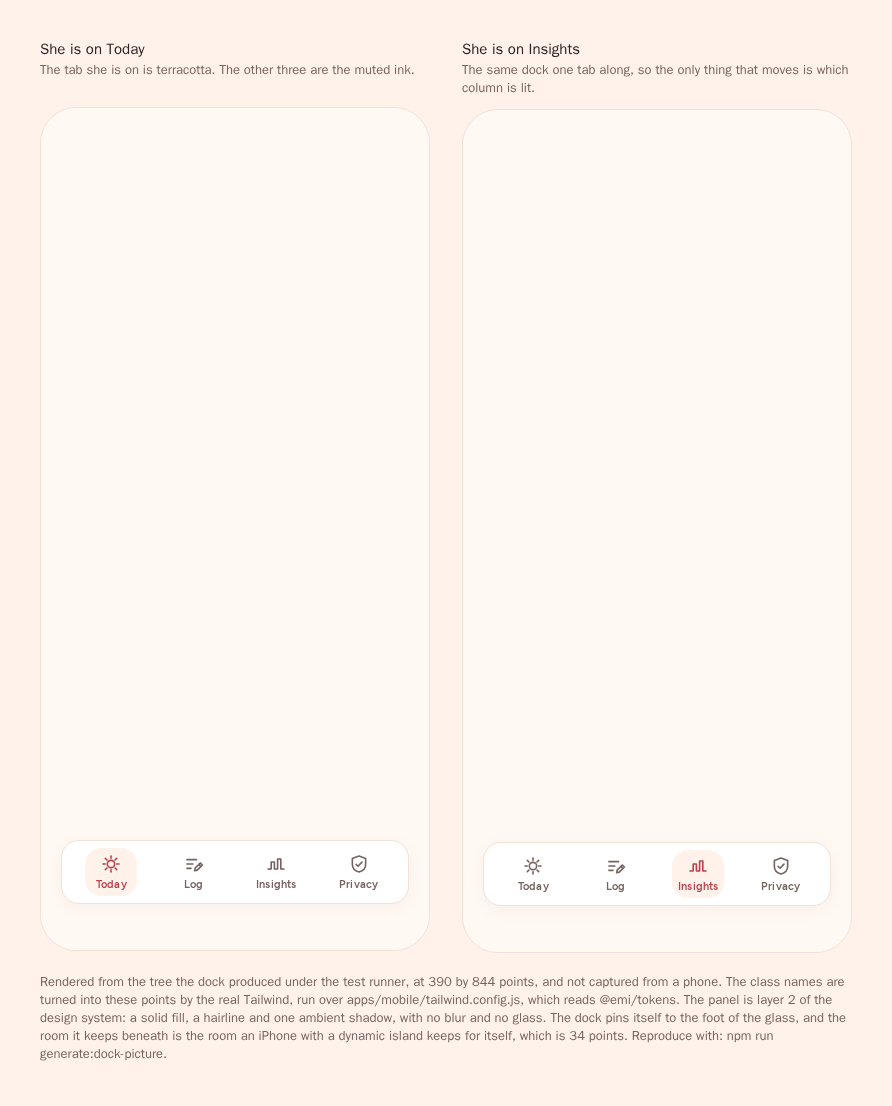
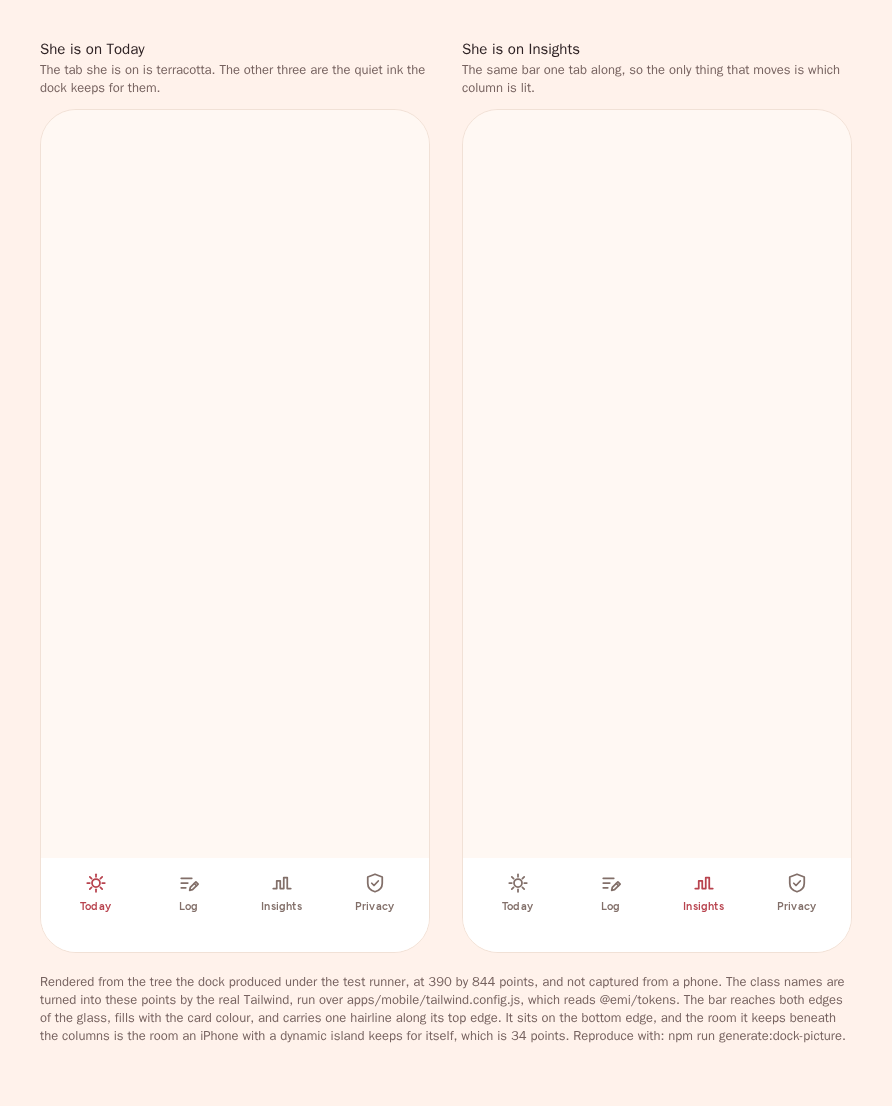
EMI: feat: the dock becomes the full width bar of the redesign

diff --git a/brand/screens/bottom-navigation.html b/brand/screens/bottom-navigation.html
@@ -28,4 +28,4 @@ svg { flex-shrink: 0; }
 .title { font-size: 15px; font-weight: 600; color: #2E2224; margin: 0 0 2px; }
 .note { font-size: 13px; color: #76625F; margin: 0 0 12px; min-height: 34px; }
 .caveat { font-size: 13px; color: #76625F; margin: 20px 0 0; max-width: 1200px; }
-</style></head><body><div class="screens"><section class="screen"><p class="title">She is on Today</p><p class="note">The tab she is on is terracotta. The other three are the muted ink.</p><div class="phone"><div style="background-color: #FFF8F3; height: 100%"><div style="bottom: 0px; left: 0px; position: absolute; right: 0px; padding-bottom: 34px"><div style="padding-inline: 20px; padding-bottom: 12px"><div style="flex-direction: row; align-items: center; justify-content: space-around; border-radius: 18px; border-style: solid; border-width: 1px; border-color: #f1e1d6; background-color: #fff; padding-inline: 8px; box-shadow: 0px 4px 20px -2px #2E22240d; height: 64px"><div style="flex-direction: column; align-items: center; justify-content: center; height: 48px; min-width: 52px; background-color: #FFF2EB; border-radius: 16px"><svg width="22" height="22" viewBox="0 0 24 24"><g stroke="#b8434e" stroke-width="1.75" stroke-linecap="round" stroke-linejoin="round"><circle cx="12" cy="12" r="4" fill="none"></circle><path d="M12 5.75V3.25" fill="none"></path><path d="M16.42 7.58 18.19 5.81" fill="none"></path><path d="M18.25 12h2.5" fill="none"></path><path d="m16.42 16.42 1.77 1.77" fill="none"></path><path d="M12 18.25v2.5" fill="none"></path><path d="M7.58 16.42 5.81 18.19" fill="none"></path><path d="M5.75 12h-2.5" fill="none"></path><path d="M7.58 7.58 5.81 5.81" fill="none"></path></g></svg><div style="margin-top: 2px; font-family: Figtree-SemiBold; letter-spacing: 0.22px; font-size: 11px; font-weight: 600; line-height: 15px; color: #b8434e">Today</div></div><div style="flex-direction: column; align-items: center; justify-content: center; height: 48px; min-width: 52px"><svg width="22" height="22" viewBox="0 0 24 24"><g stroke="#76625f" stroke-width="1.75" stroke-linecap="round" stroke-linejoin="round"><path d="M4.25 7.25h10.5" fill="none"></path><path d="M4.25 12h6.5" fill="none"></path><path d="M4.25 16.75h4.5" fill="none"></path><path d="m18.9 10.85 2.25 2.25-5.6 5.6-2.85.6.6-2.85z" fill="none"></path><path d="m17.25 12.5 2.25 2.25" fill="none"></path></g></svg><div style="margin-top: 2px; font-family: Figtree-SemiBold; letter-spacing: 0.22px; font-size: 11px; font-weight: 600; line-height: 15px; color: #76625f">Log</div></div><div style="flex-direction: column; align-items: center; justify-content: center; height: 48px; min-width: 52px"><svg width="22" height="22" viewBox="0 0 24 24"><g stroke="#76625f" stroke-width="1.75" stroke-linecap="round" stroke-linejoin="round"><path d="M3.25 17.5h3.5V9.75h3.5v7.75h3.5V6.5h3.5v11h3.5" fill="none"></path></g></svg><div style="margin-top: 2px; font-family: Figtree-SemiBold; letter-spacing: 0.22px; font-size: 11px; font-weight: 600; line-height: 15px; color: #76625f">Insights</div></div><div style="flex-direction: column; align-items: center; justify-content: center; height: 48px; min-width: 52px"><svg width="22" height="22" viewBox="0 0 24 24"><g stroke="#76625f" stroke-width="1.75" stroke-linecap="round" stroke-linejoin="round"><path d="M12 3.25 4.75 6v6.25c0 4.35 3 7.35 7.25 8.5 4.25-1.15 7.25-4.15 7.25-8.5V6z" fill="none"></path><path d="m8.75 12.25 2.25 2.25 4.25-4.5" fill="none"></path></g></svg><div style="margin-top: 2px; font-family: Figtree-SemiBold; letter-spacing: 0.22px; font-size: 11px; font-weight: 600; line-height: 15px; color: #76625f">Privacy</div></div></div></div></div></div></div></section><section class="screen"><p class="title">She is on Insights</p><p class="note">The same dock one tab along, so the only thing that moves is which column is lit.</p><div class="phone"><div style="background-color: #FFF8F3; height: 100%"><div style="bottom: 0px; left: 0px; position: absolute; right: 0px; padding-bottom: 34px"><div style="padding-inline: 20px; padding-bottom: 12px"><div style="flex-direction: row; align-items: center; justify-content: space-around; border-radius: 18px; border-style: solid; border-width: 1px; border-color: #f1e1d6; background-color: #fff; padding-inline: 8px; box-shadow: 0px 4px 20px -2px #2E22240d; height: 64px"><div style="flex-direction: column; align-items: center; justify-content: center; height: 48px; min-width: 52px"><svg width="22" height="22" viewBox="0 0 24 24"><g stroke="#76625f" stroke-width="1.75" stroke-linecap="round" stroke-linejoin="round"><circle cx="12" cy="12" r="4" fill="none"></circle><path d="M12 5.75V3.25" fill="none"></path><path d="M16.42 7.58 18.19 5.81" fill="none"></path><path d="M18.25 12h2.5" fill="none"></path><path d="m16.42 16.42 1.77 1.77" fill="none"></path><path d="M12 18.25v2.5" fill="none"></path><path d="M7.58 16.42 5.81 18.19" fill="none"></path><path d="M5.75 12h-2.5" fill="none"></path><path d="M7.58 7.58 5.81 5.81" fill="none"></path></g></svg><div style="margin-top: 2px; font-family: Figtree-SemiBold; letter-spacing: 0.22px; font-size: 11px; font-weight: 600; line-height: 15px; color: #76625f">Today</div></div><div style="flex-direction: column; align-items: center; justify-content: center; height: 48px; min-width: 52px"><svg width="22" height="22" viewBox="0 0 24 24"><g stroke="#76625f" stroke-width="1.75" stroke-linecap="round" stroke-linejoin="round"><path d="M4.25 7.25h10.5" fill="none"></path><path d="M4.25 12h6.5" fill="none"></path><path d="M4.25 16.75h4.5" fill="none"></path><path d="m18.9 10.85 2.25 2.25-5.6 5.6-2.85.6.6-2.85z" fill="none"></path><path d="m17.25 12.5 2.25 2.25" fill="none"></path></g></svg><div style="margin-top: 2px; font-family: Figtree-SemiBold; letter-spacing: 0.22px; font-size: 11px; font-weight: 600; line-height: 15px; color: #76625f">Log</div></div><div style="flex-direction: column; align-items: center; justify-content: center; height: 48px; min-width: 52px; background-color: #FFF2EB; border-radius: 16px"><svg width="22" height="22" viewBox="0 0 24 24"><g stroke="#b8434e" stroke-width="1.75" stroke-linecap="round" stroke-linejoin="round"><path d="M3.25 17.5h3.5V9.75h3.5v7.75h3.5V6.5h3.5v11h3.5" fill="none"></path></g></svg><div style="margin-top: 2px; font-family: Figtree-SemiBold; letter-spacing: 0.22px; font-size: 11px; font-weight: 600; line-height: 15px; color: #b8434e">Insights</div></div><div style="flex-direction: column; align-items: center; justify-content: center; height: 48px; min-width: 52px"><svg width="22" height="22" viewBox="0 0 24 24"><g stroke="#76625f" stroke-width="1.75" stroke-linecap="round" stroke-linejoin="round"><path d="M12 3.25 4.75 6v6.25c0 4.35 3 7.35 7.25 8.5 4.25-1.15 7.25-4.15 7.25-8.5V6z" fill="none"></path><path d="m8.75 12.25 2.25 2.25 4.25-4.5" fill="none"></path></g></svg><div style="margin-top: 2px; font-family: Figtree-SemiBold; letter-spacing: 0.22px; font-size: 11px; font-weight: 600; line-height: 15px; color: #76625f">Privacy</div></div></div></div></div></div></div></section></div><p class="caveat">Rendered from the tree the dock produced under the test runner, at 390 by 844 points, and not captured from a phone. The class names are turned into these points by the real Tailwind, run over apps/mobile/tailwind.config.js, which reads @emi/tokens. The panel is layer 2 of the design system: a solid fill, a hairline and one ambient shadow, with no blur and no glass. The dock pins itself to the foot of the glass, and the room it keeps beneath is the room an iPhone with a dynamic island keeps for itself, which is 34 points. Reproduce with: npm run generate:dock-picture.</p></body></html>
+</style></head><body><div class="screens"><section class="screen"><p class="title">She is on Today</p><p class="note">The tab she is on is terracotta. The other three are the quiet ink the dock keeps for them.</p><div class="phone"><div style="background-color: #FFF8F3; height: 100%"><div style="background-color: #FFFFFF; border-top-color: #F1E1D6; border-top-width: 1px; bottom: 0px; left: 0px; position: absolute; right: 0px; padding-bottom: 34px"><div style="flex-direction: row; padding-inline: 8px; padding-top: 8px"><div style="flex-direction: column; align-items: center; justify-content: center; flex: 1; gap: 4px; min-height: 52px; min-width: 52px"><svg width="24" height="24" viewBox="0 0 24 24"><g stroke="#b8434e" stroke-width="1.75" stroke-linecap="round" stroke-linejoin="round"><circle cx="12" cy="12" r="4" fill="none"></circle><path d="M12 5.75V3.25" fill="none"></path><path d="M16.42 7.58 18.19 5.81" fill="none"></path><path d="M18.25 12h2.5" fill="none"></path><path d="m16.42 16.42 1.77 1.77" fill="none"></path><path d="M12 18.25v2.5" fill="none"></path><path d="M7.58 16.42 5.81 18.19" fill="none"></path><path d="M5.75 12h-2.5" fill="none"></path><path d="M7.58 7.58 5.81 5.81" fill="none"></path></g></svg><div style="font-family: Figtree-SemiBold; letter-spacing: 0.22px; font-size: 11px; font-weight: 600; line-height: 15px; color: #b8434e">Today</div></div><div style="flex-direction: column; align-items: center; justify-content: center; flex: 1; gap: 4px; min-height: 52px; min-width: 52px"><svg width="24" height="24" viewBox="0 0 24 24"><g stroke="#826f69" stroke-width="1.75" stroke-linecap="round" stroke-linejoin="round"><path d="M4.25 7.25h10.5" fill="none"></path><path d="M4.25 12h6.5" fill="none"></path><path d="M4.25 16.75h4.5" fill="none"></path><path d="m18.9 10.85 2.25 2.25-5.6 5.6-2.85.6.6-2.85z" fill="none"></path><path d="m17.25 12.5 2.25 2.25" fill="none"></path></g></svg><div style="font-family: Figtree-SemiBold; letter-spacing: 0.22px; font-size: 11px; font-weight: 600; line-height: 15px; color: #826f69">Log</div></div><div style="flex-direction: column; align-items: center; justify-content: center; flex: 1; gap: 4px; min-height: 52px; min-width: 52px"><svg width="24" height="24" viewBox="0 0 24 24"><g stroke="#826f69" stroke-width="1.75" stroke-linecap="round" stroke-linejoin="round"><path d="M3.25 17.5h3.5V9.75h3.5v7.75h3.5V6.5h3.5v11h3.5" fill="none"></path></g></svg><div style="font-family: Figtree-SemiBold; letter-spacing: 0.22px; font-size: 11px; font-weight: 600; line-height: 15px; color: #826f69">Insights</div></div><div style="flex-direction: column; align-items: center; justify-content: center; flex: 1; gap: 4px; min-height: 52px; min-width: 52px"><svg width="24" height="24" viewBox="0 0 24 24"><g stroke="#826f69" stroke-width="1.75" stroke-linecap="round" stroke-linejoin="round"><path d="M12 3.25 4.75 6v6.25c0 4.35 3 7.35 7.25 8.5 4.25-1.15 7.25-4.15 7.25-8.5V6z" fill="none"></path><path d="m8.75 12.25 2.25 2.25 4.25-4.5" fill="none"></path></g></svg><div style="font-family: Figtree-SemiBold; letter-spacing: 0.22px; font-size: 11px; font-weight: 600; line-height: 15px; color: #826f69">Privacy</div></div></div></div></div></div></section><section class="screen"><p class="title">She is on Insights</p><p class="note">The same bar one tab along, so the only thing that moves is which column is lit.</p><div class="phone"><div style="background-color: #FFF8F3; height: 100%"><div style="background-color: #FFFFFF; border-top-color: #F1E1D6; border-top-width: 1px; bottom: 0px; left: 0px; position: absolute; right: 0px; padding-bottom: 34px"><div style="flex-direction: row; padding-inline: 8px; padding-top: 8px"><div style="flex-direction: column; align-items: center; justify-content: center; flex: 1; gap: 4px; min-height: 52px; min-width: 52px"><svg width="24" height="24" viewBox="0 0 24 24"><g stroke="#826f69" stroke-width="1.75" stroke-linecap="round" stroke-linejoin="round"><circle cx="12" cy="12" r="4" fill="none"></circle><path d="M12 5.75V3.25" fill="none"></path><path d="M16.42 7.58 18.19 5.81" fill="none"></path><path d="M18.25 12h2.5" fill="none"></path><path d="m16.42 16.42 1.77 1.77" fill="none"></path><path d="M12 18.25v2.5" fill="none"></path><path d="M7.58 16.42 5.81 18.19" fill="none"></path><path d="M5.75 12h-2.5" fill="none"></path><path d="M7.58 7.58 5.81 5.81" fill="none"></path></g></svg><div style="font-family: Figtree-SemiBold; letter-spacing: 0.22px; font-size: 11px; font-weight: 600; line-height: 15px; color: #826f69">Today</div></div><div style="flex-direction: column; align-items: center; justify-content: center; flex: 1; gap: 4px; min-height: 52px; min-width: 52px"><svg width="24" height="24" viewBox="0 0 24 24"><g stroke="#826f69" stroke-width="1.75" stroke-linecap="round" stroke-linejoin="round"><path d="M4.25 7.25h10.5" fill="none"></path><path d="M4.25 12h6.5" fill="none"></path><path d="M4.25 16.75h4.5" fill="none"></path><path d="m18.9 10.85 2.25 2.25-5.6 5.6-2.85.6.6-2.85z" fill="none"></path><path d="m17.25 12.5 2.25 2.25" fill="none"></path></g></svg><div style="font-family: Figtree-SemiBold; letter-spacing: 0.22px; font-size: 11px; font-weight: 600; line-height: 15px; color: #826f69">Log</div></div><div style="flex-direction: column; align-items: center; justify-content: center; flex: 1; gap: 4px; min-height: 52px; min-width: 52px"><svg width="24" height="24" viewBox="0 0 24 24"><g stroke="#b8434e" stroke-width="1.75" stroke-linecap="round" stroke-linejoin="round"><path d="M3.25 17.5h3.5V9.75h3.5v7.75h3.5V6.5h3.5v11h3.5" fill="none"></path></g></svg><div style="font-family: Figtree-SemiBold; letter-spacing: 0.22px; font-size: 11px; font-weight: 600; line-height: 15px; color: #b8434e">Insights</div></div><div style="flex-direction: column; align-items: center; justify-content: center; flex: 1; gap: 4px; min-height: 52px; min-width: 52px"><svg width="24" height="24" viewBox="0 0 24 24"><g stroke="#826f69" stroke-width="1.75" stroke-linecap="round" stroke-linejoin="round"><path d="M12 3.25 4.75 6v6.25c0 4.35 3 7.35 7.25 8.5 4.25-1.15 7.25-4.15 7.25-8.5V6z" fill="none"></path><path d="m8.75 12.25 2.25 2.25 4.25-4.5" fill="none"></path></g></svg><div style="font-family: Figtree-SemiBold; letter-spacing: 0.22px; font-size: 11px; font-weight: 600; line-height: 15px; color: #826f69">Privacy</div></div></div></div></div></div></section></div><p class="caveat">Rendered from the tree the dock produced under the test runner, at 390 by 844 points, and not captured from a phone. The class names are turned into these points by the real Tailwind, run over apps/mobile/tailwind.config.js, which reads @emi/tokens. The bar reaches both edges of the glass, fills with the card colour, and carries one hairline along its top edge. It sits on the bottom edge, and the room it keeps beneath the columns is the room an iPhone with a dynamic island keeps for itself, which is 34 points. Reproduce with: npm run generate:dock-picture.</p></body></html>

diff --git a/packages/ui/src/BottomNavigation.tsx b/packages/ui/src/BottomNavigation.tsx
@@ -1,40 +1,32 @@
-import { type IconName, colour, radius } from '@emi/tokens';
+import { ICON_SIZE, type IconName, colour, space, stroke } from '@emi/tokens';
 import type { ReactNode } from 'react';
 import { createContext, useContext } from 'react';
 import { StyleSheet } from 'react-native';
 import { useSafeAreaInsets } from 'react-native-safe-area-context';
 
 import { Icon } from './Icon';
-import { floatingShadow } from './floating';
 import { Box } from './gluestack/box';
 import { HStack } from './gluestack/hstack';
 import { Pressable } from './gluestack/pressable';
 import { Text } from './gluestack/text';
 
 /**
- * The dock: a panel standing off the bottom of the glass, holding one column for each place she
- * can go.
+ * The dock: a bar across the foot of the glass, holding one column for each place she can go.
  *
- * It is layer 2 of the design system, the one thing in the product that floats over a screen: a
- * card ground, the corner every container takes, a hairline, and the single ambient shadow the
- * document allows. This style has no blur and no glass, so the fill is solid and her screen passes
- * behind the panel rather than through it.
+ * The prototype pins it to the left, the right and the bottom edge, fills it with the card colour,
+ * and draws one hairline along its top. So her screen ends where that line begins, nothing of the
+ * ground shows beside the bar, and the bar itself takes every press that lands on it.
  *
- * The palette, the corner and the padding arrive as class names, which reach points through
- * `apps/mobile/tailwind.config.js` and therefore through @emi/tokens. The three measurements the
- * dock owns are written here, because no class carries them and the room a screen leaves at its
- * foot is their sum.
+ * The four measurements the dock owns are written here, because no class carries them and the room
+ * a screen leaves at its foot is their sum.
  *
- * The tab she is on sits in the selected well the document names, so the column she is on differs
- * from the other three by a shape as well as by a colour.
+ * The tab she is on is drawn in the accent, icon and word together, and the other three in the
+ * quiet colour the design document names for them. A screen reader is told which one is selected,
+ * because the accent is the only thing a reader of the screen has to go on.
  *
  * The chrome knows nothing about routing or about words. It is handed the tabs, told which one she
  * is on, and calls back when she picks another, so the one list of tabs lives with the screens it
  * names rather than in here.
- *
- * It hangs over the screen rather than standing beside it: her screen fills the glass to the
- * bottom edge and the panel floats over it. The air around the panel lets a press through, and
- * only the panel takes one.
  */
 
 /** One column of the dock. */
@@ -56,22 +48,22 @@ interface Props {
 /** The dock itself, which a test asks for to prove it is drawn, or that it is not. */
 export const bottomNavigationTestID = 'bottom-navigation';
 
-/** The panel inside it, which carries the height, the corner, the hairline and the fill. */
+/** The row inside the bar, which holds the four columns and nothing else. */
 export const dockPanelTestID = 'bottom-navigation-panel';
-
-/** The box that stands the panel off the edges of the glass and off the foot. */
-export const standOffTestID = 'bottom-navigation-stand-off';
 
 /** One column, by the name of the route it reaches. */
 export function tabTestID(name: string): string {
   return `bottom-navigation-${name}`;
 }
 
-/** Points. The height the design system fixes the dock at, with the safe area accommodated. */
-export const dockHeight = 64;
+/** Points. One column, above the forty four points contract SEE-3 asks of every target. */
+const TAB_HEIGHT = 52;
 
-/** Points. The air between the panel and the bottom edge of the glass. */
-export const dockStandOff = 12;
+/** Points. What a column takes where the bar is too narrow to hand it a quarter of itself. */
+const TAB_WIDTH = 52;
+
+/** Points. What the bar draws above the room the phone keeps for itself. */
+export const dockHeight = space.spaceSm + TAB_HEIGHT;
 
 /**
  * Points. The deepest home indicator a phone keeps for itself, which the dock pads itself by.
@@ -86,7 +78,7 @@ export const deepestHomeIndicator = 34;
  * The room a screen leaves at its foot so the dock covers nothing she can read, which is what the
  * dock draws on the phone that keeps the most glass for itself.
  */
-export const dockRoom = dockHeight + dockStandOff + deepestHomeIndicator;
+export const dockRoom = dockHeight + deepestHomeIndicator;
 
 const RoomAtTheFoot = createContext<number | undefined>(undefined);
 
@@ -103,24 +95,18 @@ export function useRoomAtTheFoot(): number | undefined {
   return useContext(RoomAtTheFoot);
 }
 
-/** Points. The drawing in a column, which the design system sets smaller than the one in a row. */
-const TAB_ICON = 22;
-
-/** Points. One column, above the forty four points contract SEE-3 asks of every target. */
-const TAB_HEIGHT = 48;
-
-/** Points. A column is wider than it is deep, so four of them fill the panel evenly. */
-const TAB_WIDTH = 52;
-
 const styles = StyleSheet.create({
-  column: { height: TAB_HEIGHT, minWidth: TAB_WIDTH },
-  // The selected well the document names, so the column she is on differs by a shape and not only
-  // by a colour. It is a style rather than a class because a class on this node stops
-  // react-native-css resolving the one on the word inside it.
-  columnHere: { backgroundColor: colour.field, borderRadius: radius.lg },
-  overTheScreen: { bottom: 0, left: 0, position: 'absolute', right: 0 },
-  panel: { boxShadow: floatingShadow, height: dockHeight },
-  standOff: { paddingBottom: dockStandOff },
+  bar: {
+    backgroundColor: colour.card,
+    borderTopColor: colour.line,
+    borderTopWidth: stroke.hairline,
+    bottom: 0,
+    left: 0,
+    position: 'absolute',
+    right: 0,
+  },
+  column: { flex: 1, gap: space.spaceXs, minHeight: TAB_HEIGHT, minWidth: TAB_WIDTH },
+  row: { paddingInline: space.spaceSm, paddingTop: space.spaceSm },
 });
 
 /** The dock, drawn from the tabs it is handed, with the one she is on lit. */
@@ -128,55 +114,39 @@ export function BottomNavigation({ tabs, chosen, onChoose }: Props): ReactNode {
   const insets = useSafeAreaInsets();
 
   return (
-    <Box
-      pointerEvents="box-none"
-      style={[styles.overTheScreen, { paddingBottom: insets.bottom }]}
-      testID={bottomNavigationTestID}
-    >
-      <Box
-        className="px-margin"
-        pointerEvents="box-none"
-        style={styles.standOff}
-        testID={standOffTestID}
-      >
-        <HStack
-          className="items-center justify-around rounded-xl border border-line bg-card px-space-sm"
-          pointerEvents="auto"
-          style={styles.panel}
-          testID={dockPanelTestID}
-        >
-          {tabs.map((tab) => {
-            const sheIsHere = tab.name === chosen;
+    <Box style={[styles.bar, { paddingBottom: insets.bottom }]} testID={bottomNavigationTestID}>
+      <HStack style={styles.row} testID={dockPanelTestID}>
+        {tabs.map((tab) => {
+          const sheIsHere = tab.name === chosen;
 
-            return (
-              <Pressable
-                accessibilityRole="tab"
-                accessibilityState={{ selected: sheIsHere }}
-                className="flex-col items-center justify-center"
-                key={tab.name}
-                onPress={() => {
-                  onChoose(tab.name);
-                }}
-                style={sheIsHere ? [styles.column, styles.columnHere] : styles.column}
-                testID={tabTestID(tab.name)}
+          return (
+            <Pressable
+              accessibilityRole="tab"
+              accessibilityState={{ selected: sheIsHere }}
+              className="flex-col items-center justify-center"
+              key={tab.name}
+              onPress={() => {
+                onChoose(tab.name);
+              }}
+              style={styles.column}
+              testID={tabTestID(tab.name)}
+            >
+              <Icon
+                colour={sheIsHere ? colour.accent : colour.dockQuiet}
+                name={tab.icon}
+                size={ICON_SIZE}
+              />
+              <Text
+                className={`font-label-sm text-label-sm ${
+                  sheIsHere ? 'text-accent' : 'text-dock-quiet'
+                }`}
               >
-                <Icon
-                  colour={sheIsHere ? colour.accent : colour.secondaryText}
-                  name={tab.icon}
-                  size={TAB_ICON}
-                />
-                <Text
-                  className={`mt-0.5 font-label-sm text-label-sm ${
-                    sheIsHere ? 'text-accent' : 'text-secondary-text'
-                  }`}
-                >
-                  {tab.label}
-                </Text>
-              </Pressable>
-            );
-          })}
-        </HStack>
-      </Box>
+                {tab.label}
+              </Text>
+            </Pressable>
+          );
+        })}
+      </HStack>
     </Box>
   );
 }

diff --git a/docs/reference/ui.md b/docs/reference/ui.md
@@ -4,7 +4,7 @@ The exported surface of `packages/ui`, generated by `npm run generate:reference`
 Nobody writes this page by hand. The prose under each symbol is the documentation comment that
 sits on it in the source, so this page cannot say one thing while the code says another.
 
-17 exported symbols, across 10 files.
+15 exported symbols, across 10 files.
 
 ## `packages/ui/src/index.ts`
 
@@ -47,15 +47,7 @@ The dock itself, which a test asks for to prove it is drawn, or that it is not.
 const dockPanelTestID = 'bottom-navigation-panel'
 ```
 
-The panel inside it, which carries the height, the corner, the hairline and the fill.
-
-### `standOffTestID`
-
-```
-const standOffTestID = 'bottom-navigation-stand-off'
-```
-
-The box that stands the panel off the edges of the glass and off the foot.
+The row inside the bar, which holds the four columns and nothing else.
 
 ### `tabTestID`
 
@@ -68,18 +60,10 @@ One column, by the name of the route it reaches.
 ### `dockHeight`
 
 ```
-const dockHeight = 64
+const dockHeight = space.spaceSm + TAB_HEIGHT
 ```
 
-Points. The height the design system fixes the dock at, with the safe area accommodated.
-
-### `dockStandOff`
-
-```
-const dockStandOff = 12
-```
-
-Points. The air between the panel and the bottom edge of the glass.
+Points. What the bar draws above the room the phone keeps for itself.
 
 ### `deepestHomeIndicator`
 
@@ -96,7 +80,7 @@ against the room it draws rather than trusted.
 ### `dockRoom`
 
 ```
-const dockRoom = dockHeight + dockStandOff + deepestHomeIndicator
+const dockRoom = dockHeight + deepestHomeIndicator
 ```
 
 The room a screen leaves at its foot so the dock covers nothing she can read, which is what the

diff --git a/docs/reference/README.md b/docs/reference/README.md
@@ -8,7 +8,7 @@ values are in range.
 - `crypto.md` is `@emi/crypto`, 114 exported symbols across 8 files.
 - `cycle.md` is `@emi/cycle`, 110 exported symbols across 9 files.
 - `tokens.md` is `@emi/tokens`, 82 exported symbols across 8 files.
-- `ui.md` is `@emi/ui`, 17 exported symbols across 10 files.
+- `ui.md` is `@emi/ui`, 15 exported symbols across 10 files.
 - `vault.md` is `@emi/vault`, 84 exported symbols across 14 files.
 
 ## The three rules the pipeline enforces
